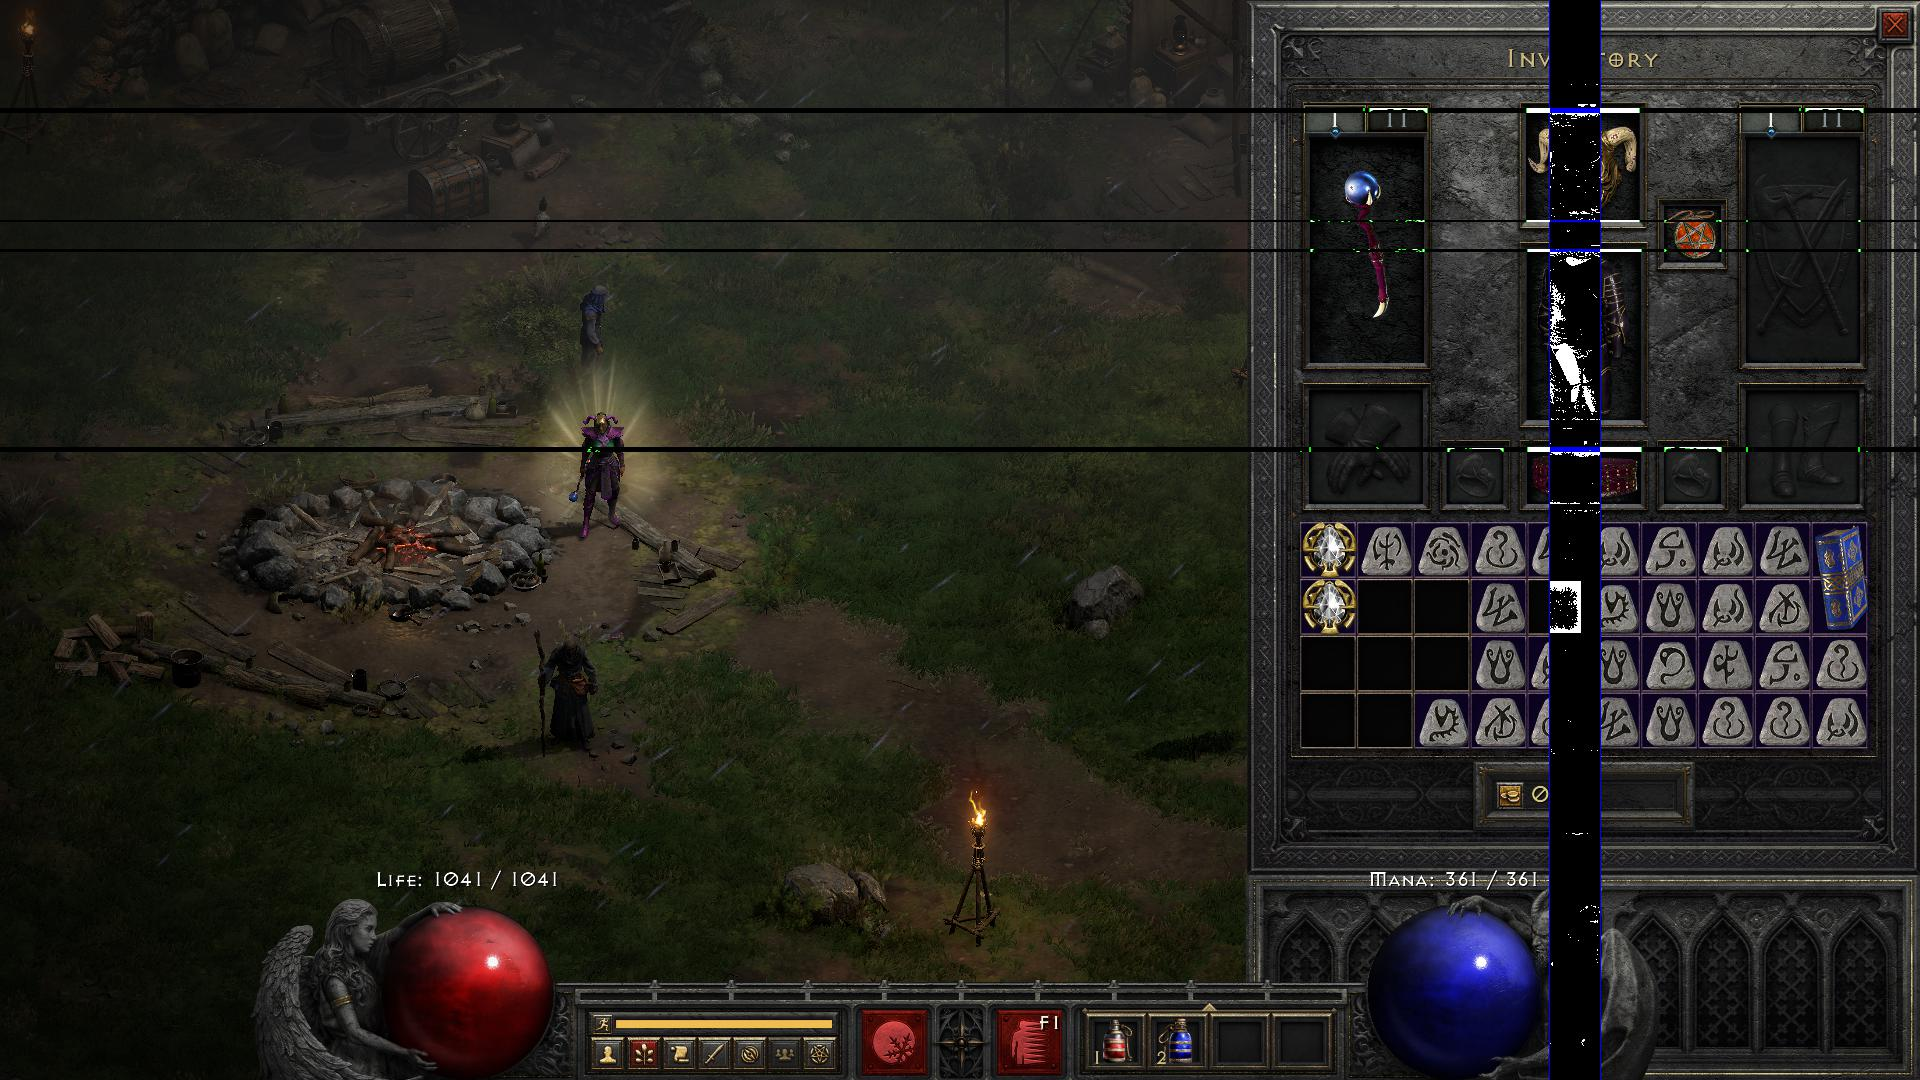
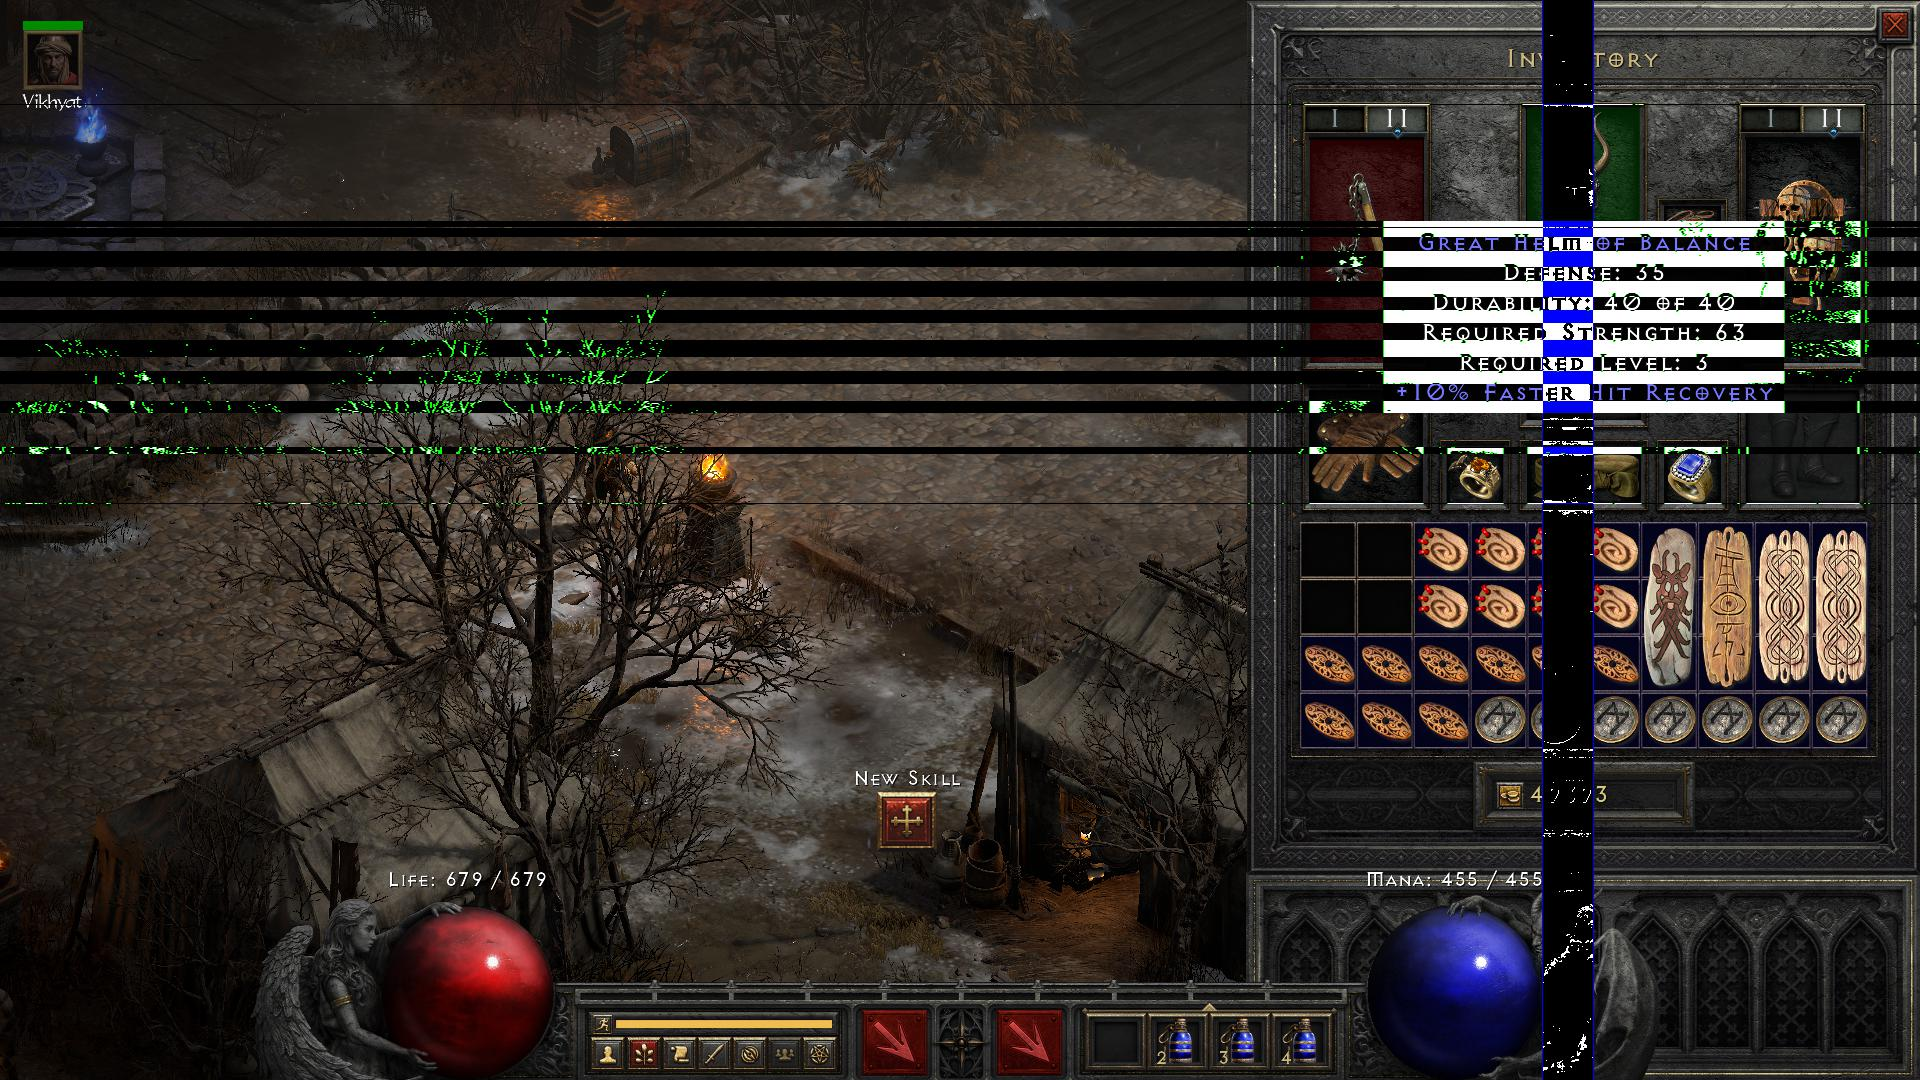
Improve box bg detection

diff --git a/test_inventory.py b/test_inventory.py
@@ -42,7 +42,7 @@ if __name__ == "__main__":
 
         bgr = get_bgr(image_path)
 
-        write_docs = image_name == "nothing_1575_800"
+        write_docs = image_name == "greathelm_1568_153"  # "head_1799_286"
 
         if write_docs:
             bgr_docs = np.copy(bgr)
@@ -137,6 +137,7 @@ if __name__ == "__main__":
 
         # step 7 docs
         if write_docs:
+            print(horizontal_mask)
             bgr_docs[top-2:top, left:right] = (0, 0, 255)
             bgr_docs[bottom:bottom+2, left:right] = (0, 0, 255)
 

diff --git a/diablorun_igt/inventory_detection.py b/diablorun_igt/inventory_detection.py
@@ -2,6 +2,7 @@ import numpy as np
 
 
 # BGR
+ITEM_DESCRIPTION_BG_COLOR = np.array((2, 2, 2))
 ITEM_SLOT_COLOR = np.array((2, 2, 2))
 ITEM_HOVER_COLOR = np.array((10, 30, 6))
 EMPTY_SLOT_COLOR = np.array((20, 20, 20))
@@ -121,7 +122,7 @@ def get_empty_item_slots(bgr):
 
 
 def get_item_description_bg_mask(bgr):
-    return np.all(np.abs(bgr - ITEM_SLOT_COLOR) < 3, axis=2)
+    return np.all(np.abs(bgr - ITEM_DESCRIPTION_BG_COLOR) < 8, axis=2)
 
 
 def get_item_description_rect(bgr, cursor):
